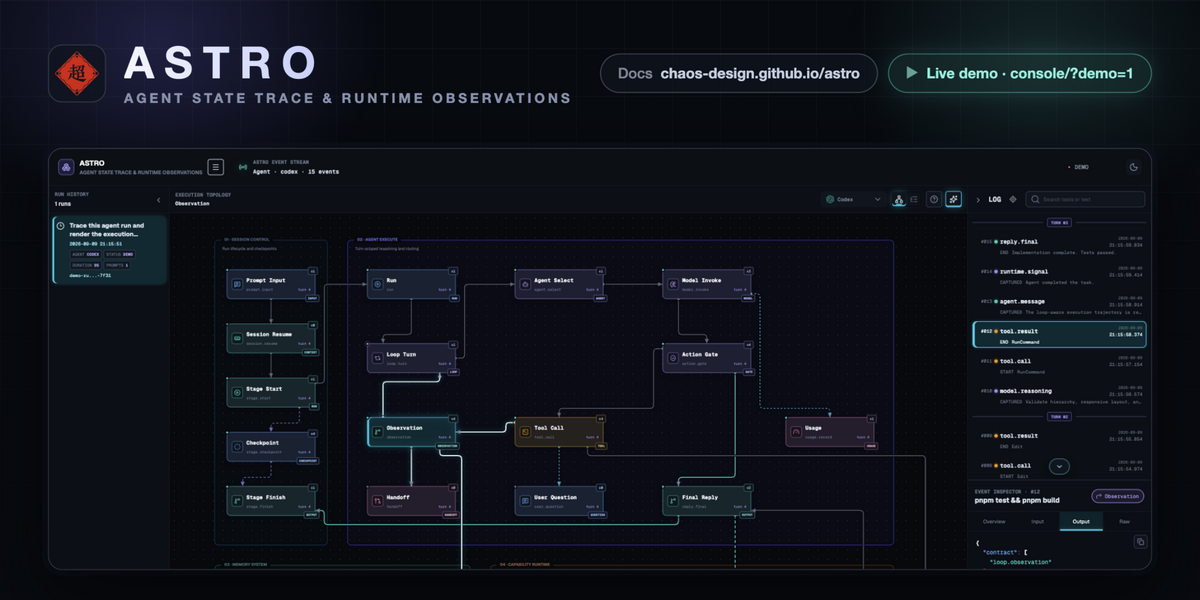
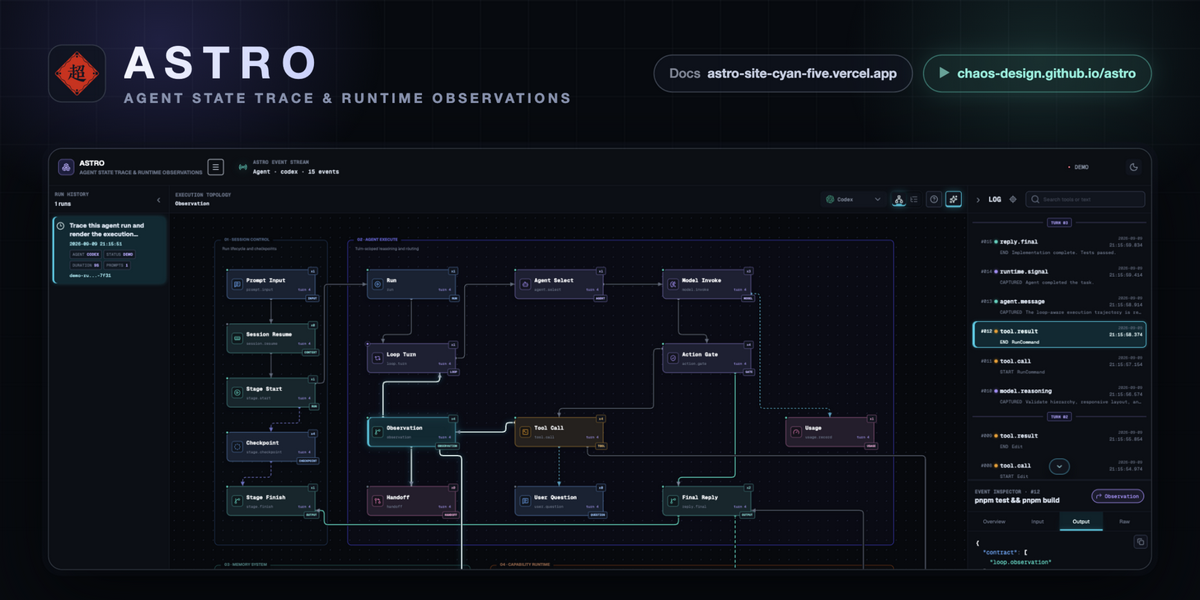
docs: point online links at the live deployments (Vercel docs, Pages preview)
The online documentation lives at https://astro-site-cyan-five.vercel.app
(the Vercel merged deployment: docs at the root, console at /console/),
and the online preview is the console published to GitHub Pages at
https://chaos-design.github.io/astro (append ?demo=1 for the sample
dataset). Both READMEs, docs/index.md, and docs/deployment-en/zh.md name
these live addresses; the workflows stay as on main — console-preview.yml
keeps publishing the Pages preview, docs-site.yml keeps building the
docs-dist artifact. The hero banner pills now show the two live domains.

Changed region(s): [[0.4933, 0.09, 0.9558, 0.15]]

diff --git a/docs/deployment-en.md b/docs/deployment-en.md
@@ -150,6 +150,9 @@ whole build (`pnpm build && pnpm build:docs &&
 node scripts/merge-deploy-output.mjs`), producing docs at the root and the
 console under `/console/` (with a rewrite so `/console` resolves).
 
+The live deployment — and the online address of the documentation — is
+<https://astro-site-cyan-five.vercel.app/>.
+
 The reader side (data always stays on the reader's machine):
 
 1. Run the local service (§2);
@@ -167,39 +170,28 @@ Behavior contract: a deployed page that never connects announces it **once**
 silent fallback to sample data. The sample renders only behind the reader's
 explicit `?demo=1`, with a persistent "sample data" banner.
 
-### 4.2 GitHub Pages (docs + console, merged)
+### 4.2 GitHub Pages (console preview only)
 
-`.github/workflows/docs-site.yml` is the release channel:
+`.github/workflows/console-preview.yml` — the live preview page is
+<https://chaos-design.github.io/astro/>; append `?demo=1` to explore it with
+the sample dataset:
 
-- On every push/PR to `main`: run `pnpm deploy:preview` (console build, docs
-  build, merge, `verify-console-build` assertions), verify the merged output,
-  and upload the `docs-dist` (docs only) and `deploy-dist` (merged) artifacts.
-- The **deploy** job runs on push to `main` only and publishes the merged
-  output to <https://chaos-design.github.io/astro/> — the docs site at the
-  root, the console preview under `/console/`. The Vercel layout and the
-  Pages layout are therefore the same directory.
+- On every push/PR to `main`: build the console, run the
+  `verify-console-build` assertions (relative assets, shipped icons and sample
+  dataset, no docs-site markers), upload the `console-dist` artifact.
+- The **deploy** job publishes automatically on push to `main` (the formal
+  release) or to a rolling-preview branch listed in the workflow's `push`
+  trigger (an in-flight feature branch gets a live preview URL without merging;
+  remove it from that list once it merges). It publishes *that* branch's build
+  over the single shared Pages site — the most recent qualifying build wins.
+- The manual `workflow_dispatch` can run from **any branch** to re-publish a
+  branch that is no longer a push trigger.
 
-`.github/workflows/console-preview.yml` is the rolling preview:
-
-- `main` is not a trigger — the release channel above owns the Pages site for
-  `main`, so the shared site is not flipped between a console-only build and
-  the merged release build.
-- It builds the console on push to a listed preview branch and on PR to
-  `main` (artifact only, no deploy); a push to the preview branch or the
-  manual `workflow_dispatch` ("Deploy console preview to GitHub Pages") can
-  publish **that** branch's build over the shared Pages site — the most
-  recent qualifying build wins, so use it for a live preview of in-flight
-  work and re-run `docs-site.yml` (or push to `main`) to restore the release.
-
-### 4.2.1 Reader setup
-
-Both clouds serve the same page, so the reader side is identical: run the
-local service (§2), allow the deployment origin (`ASTRO_CORS_ORIGINS` or
-`server.corsOrigins` in `~/.astrox/plugins/astro/config.yaml`, then restart),
-and open the page — it reads the local service, `?api=` points at a
-non-default port. The behavior contract from §4.1 applies unchanged: one
-"cannot reach the local service" announcement, sample data only behind
-explicit `?demo=1`.
+Constraint: the Pages site hosts the **console only**, never the docs — the
+two cannot share the one site (the workflow comments and
+`verify-console-build` enforce this). The docs site keeps its own path: the
+Vercel merged output (`vercel.json` + `scripts/merge-deploy-output.mjs`) or the
+`docs-dist` artifact; it is not auto-deployed to Pages.
 
 ### 4.3 Any other static host
 
@@ -210,14 +202,13 @@ under any sub-path; pair it with the CORS allowlist from §3.
 
 `pnpm build:docs` inlines every `docs/*.md` into `site/dist` at build time
 (`docs/*.html` decks go to `/decks/`, `docs/assets/` ships along); the output
-is self-contained. Three hosting routes:
+is self-contained. The published instance is the Vercel deployment from §4.1
+(<https://astro-site-cyan-five.vercel.app/>). Three hosting routes:
 
 1. The merged artifact: `pnpm deploy:preview` produces `deploy/` (docs at the
    root);
-2. GitHub Pages: `docs-site.yml` publishes the merged output to
-   <https://chaos-design.github.io/astro/> on every push to `main` (§4.2);
-   the `docs-dist` artifact is uploaded on every push/PR for manual hosting
-   elsewhere;
+2. The Actions artifact: `docs-site.yml` uploads `docs-dist` on every
+   push/PR (there is no automatic publish — download and host it anywhere);
 3. `site/dist` deployed directly.
 
 Adding a doc = drop the `.md` in `docs/` **and** register it in

diff --git a/docs/deployment-zh.md b/docs/deployment-zh.md
@@ -136,6 +136,8 @@ astrox status|start|stop|restart|update|logs|doctor|path|open|info
 （`pnpm build && pnpm build:docs && node scripts/merge-deploy-output.mjs`），
 产物布局：文档在根、控制台在 `/console/`（`rewrites` 保证 `/console` 直达）。
 
+线上部署即在线文档地址：<https://astro-site-cyan-five.vercel.app/>。
+
 读者侧（数据永远在读者机器上）：
 
 1. 本机跑起服务（§2）；
@@ -149,34 +151,23 @@ astrox status|start|stop|restart|update|logs|doctor|path|open|info
 `ASTRO_CORS_ORIGINS` 行），不逐次重试刷屏，也**绝不**静默回落示例数据——
 示例只在该读者显式 `?demo=1` 时渲染，且带常驻「示例数据」横幅。
 
-### 4.2 GitHub Pages（文档 + 控制台合并发布）
+### 4.2 GitHub Pages（仅控制台预览）
 
-`.github/workflows/docs-site.yml` 是正式发布通道：
+`.github/workflows/console-preview.yml` —— 在线预览地址是
+<https://chaos-design.github.io/astro/>，追加 `?demo=1` 即可用示例数据体验：
 
-- 每次 push/PR 到 `main`：跑 `pnpm deploy:preview`（控制台构建、文档构建、
-  合并、`verify-console-build` 校验），校验合并产物，上传 `docs-dist`
-  （仅文档）与 `deploy-dist`（合并产物）两个工件。
-- **Deploy 任务只在 push 到 `main` 时运行**，把合并产物发布到
-  <https://chaos-design.github.io/astro/> —— 文档站在根路径，控制台预览在
-  `/console/`。因此 Vercel 与 Pages 的站点布局是同一个目录。
+- 每次 push/PR 到 `main`：构建控制台、跑 `verify-console-build` 校验（相对
+  资源、自带图标与示例数据集、无文档站标记），上传 `console-dist` 工件。
+- **Deploy 任务在 push 时自动发布**：推送到 `main`（正式发布）或工作流
+  `push` 清单里登记的滚动预览分支（如进行中的 feature 分支——合并前即可拿到
+  预览 URL；分支合并后把它从清单移除）都会把*该分支*的构建发布到**同一个**
+  Pages 站点，最近一次命中的构建胜出。
+- 手动 `workflow_dispatch` 从**任何分支**都能跑：用于重新发布已不在
+  push 清单里的分支（如合并后删掉的测试分支）。
 
-`.github/workflows/console-preview.yml` 承担滚动预览：
-
-- `main` 不再是它的触发条件——上面的发布通道独占 `main` 的 Pages 站点，
-  避免共享站点在「仅控制台构建」与「合并发布构建」之间来回翻转。
-- 它在推送到登记的预览分支和 PR 到 `main` 时构建（PR 只出工件、不发布）；
-  推送预览分支或手动 `workflow_dispatch`（"Deploy console preview to
-  GitHub Pages"）可把**该分支**的构建发布到共享 Pages 站点——最近一次命中
-  的构建胜出，适合在途工作的实时预览；重新运行 `docs-site.yml`（或推送
-  `main`）即可恢复正式发布。
-
-### 4.2.1 读者侧配置
-
-两个云端部署的是同一个页面，读者侧完全一致：本机跑起服务（§2），把部署
-域名加入允许列表（`ASTRO_CORS_ORIGINS` 或 `~/.astrox/plugins/astro/config.yaml`
-的 `server.corsOrigins` 后重启），打开页面即连本机服务，`?api=` 指到非默认
-端口。§4.1 的行为契约原样适用：连不上只报一次，示例数据仅在显式 `?demo=1`
-时渲染。
+约束：Pages 单站点只放**控制台**，不放文档站（两者互斥，workflow 注释与
+`verify-console-build` 都保证这一点）；文档站走自己的托管路径（Vercel 合并
+产物或 `docs-dist` 工件），不在 Pages 自动部署。
 
 ### 4.3 其它静态主机
 
@@ -186,12 +177,12 @@ astrox status|start|stop|restart|update|logs|doctor|path|open|info
 ## 5. 文档站
 
 `pnpm build:docs` 把 `docs/*.md` 在构建时内联进 `site/dist`（`docs/*.html`
-演示页到 `/decks/`，`docs/assets/` 随附），产物自包含。三条托管路径：
+演示页到 `/decks/`，`docs/assets/` 随附），产物自包含。已发布的实例即 §4.1
+的 Vercel 部署（<https://astro-site-cyan-five.vercel.app/>）。三条托管路径：
 
 1. 合并产物：`pnpm deploy:preview` 产出的 `deploy/`（文档在根）；
-2. GitHub Pages：`docs-site.yml` 每次 push 到 `main` 把合并产物自动发布到
-   <https://chaos-design.github.io/astro/>（§4.2）；`docs-dist` 工件每次
-   push/PR 都会上传，可下载后部署到其它静态主机；
+2. Actions 工件：`docs-site.yml` 每次 push/PR 上传 `docs-dist`（无自动发布，
+   下载后部署到任意静态主机）；
 3. 直接 `site/dist` 部署。
 
 新增文档 = 把 `.md` 放进 `docs/`，并在 `site/src/docs.ts` 的

diff --git a/README.md b/README.md
@@ -4,8 +4,8 @@
 
 ![ASTRO — Agent State Trace & Runtime Observations](docs/assets/astro-hero.png)
 
-**[📖 Read the docs](https://chaos-design.github.io/astro/)** ·
-**[▶ Try the live demo](https://chaos-design.github.io/astro/console/?demo=1)**
+**[📖 Read the docs](https://astro-site-cyan-five.vercel.app/)** ·
+**[▶ Try the live preview](https://chaos-design.github.io/astro/?demo=1)**
 (no install, sample data in the browser only)
 
 English | [简体中文](README-zh.md)
@@ -222,8 +222,8 @@ JSONL, the service pushes it, RUN HISTORY and the topology update in real time.
 
 | Path | How |
 | --- | --- |
-| Vercel | `vercel.json` builds the console and the docs site and merges them: docs at the root, the console preview at `/console/`. Import the repository — no extra settings. |
-| GitHub Pages | Every push to `main` publishes the merged output — the docs site at the root plus the console preview under `/console/` — to [https://chaos-design.github.io/astro](https://chaos-design.github.io/astro/) (`.github/workflows/docs-site.yml`). For in-flight branches, `.github/workflows/console-preview.yml` builds on push/PR; pushing the preview branch or running "Deploy console preview to GitHub Pages" manually publishes that branch's build. |
+| Vercel | `vercel.json` builds the console and the docs site and merges them: docs at the root, the console preview at `/console/`. Import the repository — no extra settings. Live: [astro-site-cyan-five.vercel.app](https://astro-site-cyan-five.vercel.app/) — the online documentation. |
+| GitHub Pages | `.github/workflows/console-preview.yml` builds the console on push/PR; a push to `main` publishes it to [chaos-design.github.io/astro](https://chaos-design.github.io/astro/) — the online preview (append `?demo=1` for the sample dataset). "Deploy console preview to GitHub Pages" publishes any other branch manually. |
 | Any static host | `pnpm build` produces `dist/` with relative asset URLs; serve it as-is. |
 
 A deployed page targets `http://127.0.0.1:5678` by default; override with
@@ -1500,9 +1500,10 @@ for Worker errors; the main-thread fallback can briefly block rendering.
 ## Documentation
 
 The documentation is also published online:
-**[https://chaos-design.github.io/astro](https://chaos-design.github.io/astro/)**
-— the same docs site, rebuilt on every push to `main`, with the console
-preview under `/console/`.
+**[astro-site-cyan-five.vercel.app](https://astro-site-cyan-five.vercel.app/)**
+— the same docs site, rebuilt with every Vercel deployment of `main`. The
+console preview lives at
+**[chaos-design.github.io/astro](https://chaos-design.github.io/astro/?demo=1)**.
 
 | Document | English | 简体中文 |
 | --- | --- | --- |

diff --git a/README-zh.md b/README-zh.md
@@ -4,8 +4,8 @@
 
 ![ASTRO — Agent State Trace & Runtime Observations](docs/assets/astro-hero.png)
 
-**[📖 在线文档](https://chaos-design.github.io/astro/)** ·
-**[▶ 在线体验](https://chaos-design.github.io/astro/console/?demo=1)**
+**[📖 在线文档](https://astro-site-cyan-five.vercel.app/)** ·
+**[▶ 在线预览](https://chaos-design.github.io/astro/?demo=1)**
 （无需安装，浏览器内加载示例数据）
 
 [English](README.md) | 简体中文
@@ -187,8 +187,8 @@ RUN HISTORY 与拓扑实时更新。
 
 | 途径 | 做法 |
 | --- | --- |
-| Vercel | 仓库 `vercel.json` 已配置构建并合并：文档站在根路径，控制台预览在 `/console/`，导入仓库即可 |
-| GitHub Pages | 每次 push 到 `main` 都会把合并产物（根路径文档站 + `/console/` 控制台预览）自动发布到 [https://chaos-design.github.io/astro](https://chaos-design.github.io/astro/)（`.github/workflows/docs-site.yml`）。在途分支的滚动预览：`.github/workflows/console-preview.yml` 在 push/PR 时构建，推送预览分支或在 Actions 手动运行 "Deploy console preview to GitHub Pages" 可把**当前分支**的构建发布到 Pages |
+| Vercel | 仓库 `vercel.json` 已配置构建并合并：文档站在根路径，控制台预览在 `/console/`，导入仓库即可。线上地址：[astro-site-cyan-five.vercel.app](https://astro-site-cyan-five.vercel.app/)（在线文档） |
+| GitHub Pages | `.github/workflows/console-preview.yml` 在 push/PR 时构建控制台；push 到 `main` 自动发布到 [chaos-design.github.io/astro](https://chaos-design.github.io/astro/)（在线预览，追加 `?demo=1` 加载示例数据）。在 Actions 手动运行 "Deploy console preview to GitHub Pages" 可发布**任意分支**的构建 |
 | 任意静态托管 | `pnpm build` 产出相对资源路径的 `dist/`，直接托管 |
 
 部署页默认连接 `http://127.0.0.1:5678`，可用 `?api=<地址>` 覆盖（持久化为
@@ -1362,9 +1362,9 @@ curl http://127.0.0.1:5678/api/demo-events
 
 ## 文档
 
-文档站已在线发布：**[https://chaos-design.github.io/astro](https://chaos-design.github.io/astro/)**
-—— 与仓库 `docs/` 同源，每次 push 到 `main` 自动重新构建发布，控制台预览位于
-`/console/`。
+文档站已在线发布：**[astro-site-cyan-five.vercel.app](https://astro-site-cyan-five.vercel.app/)**
+—— 与仓库 `docs/` 同源，`main` 的每次 Vercel 部署自动更新。控制台预览位于
+**[chaos-design.github.io/astro](https://chaos-design.github.io/astro/?demo=1)**。
 
 | 文档 | English | 简体中文 |
 | --- | --- | --- |

diff --git a/docs/index.md b/docs/index.md
@@ -3,10 +3,10 @@
 **Agent State Trace & Runtime Observations**
 
 This documentation is published online at
-<https://chaos-design.github.io/astro/> — rebuilt on every push to `main`,
-with the console preview under `/console/`. You can try the console without
-installing anything: <https://chaos-design.github.io/astro/console/?demo=1>
-loads the sample dataset in your browser only.
+<https://astro-site-cyan-five.vercel.app/> (Vercel). The console preview is
+published to GitHub Pages at <https://chaos-design.github.io/astro/> — open
+<https://chaos-design.github.io/astro/?demo=1> to try it with the sample
+dataset, no install needed.
 
 This directory separates task-oriented guides from protocol, architecture, and operations references. Start with the user manual for normal use; use the protocol and operations documents when implementing an integration or diagnosing capture.
 
